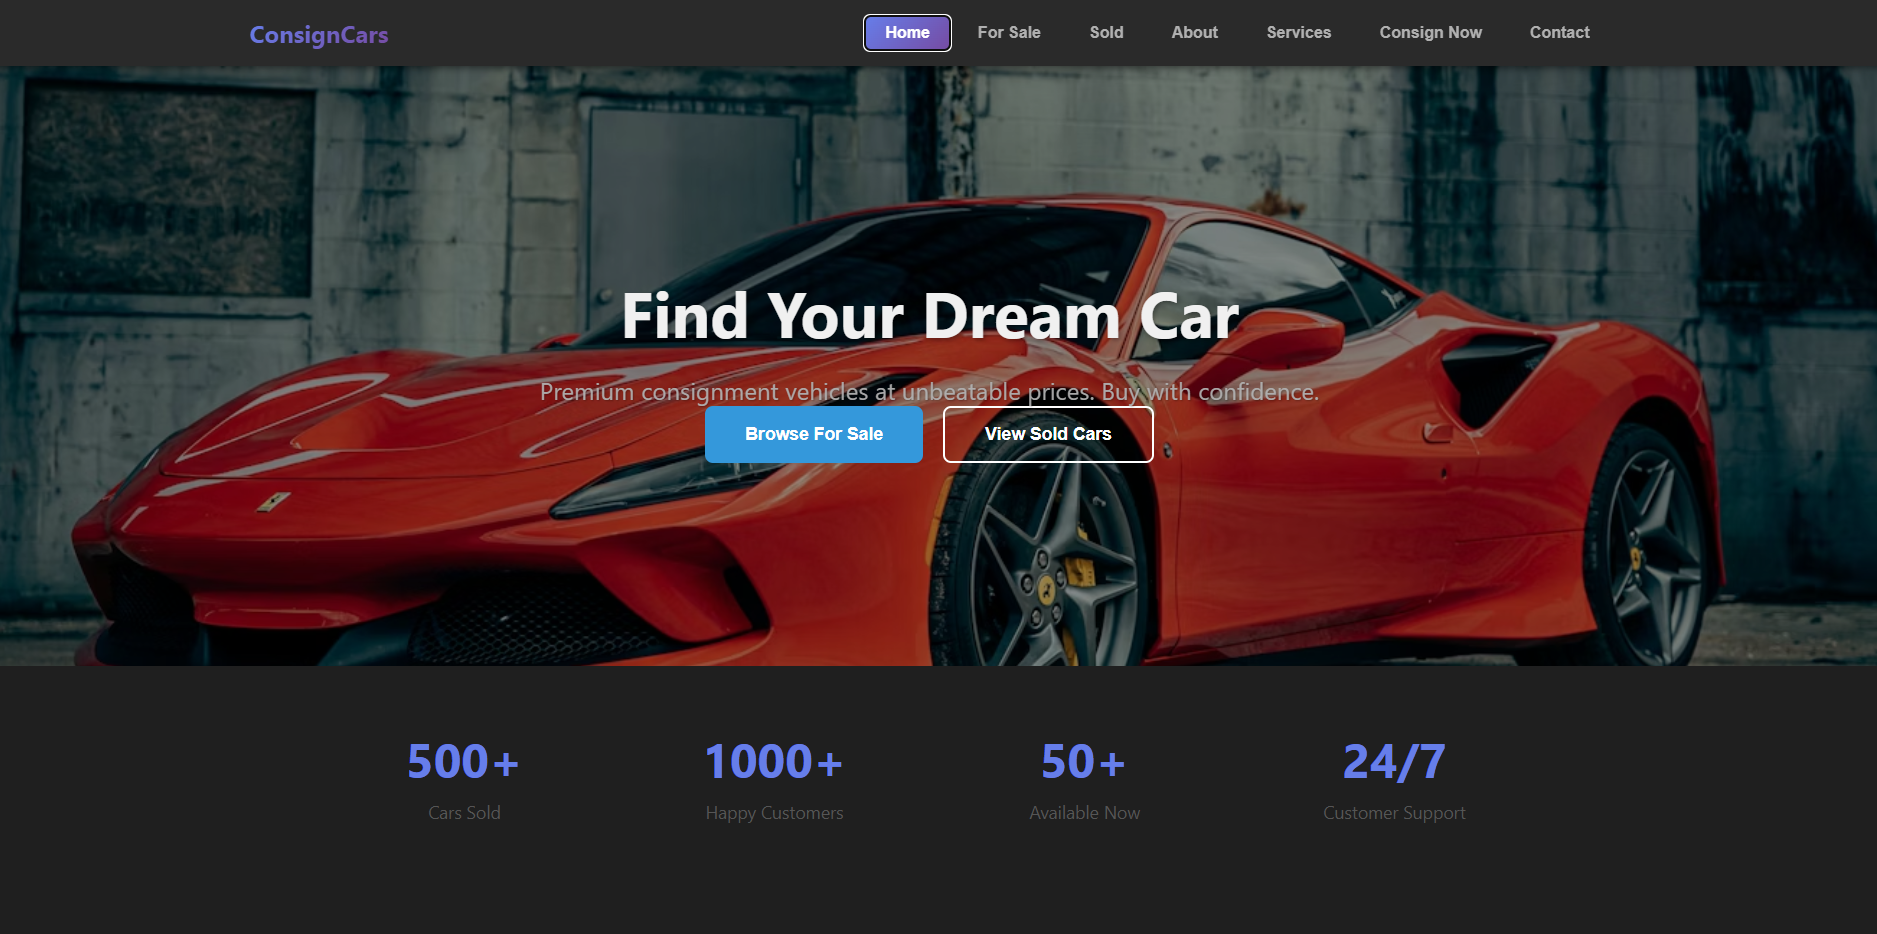
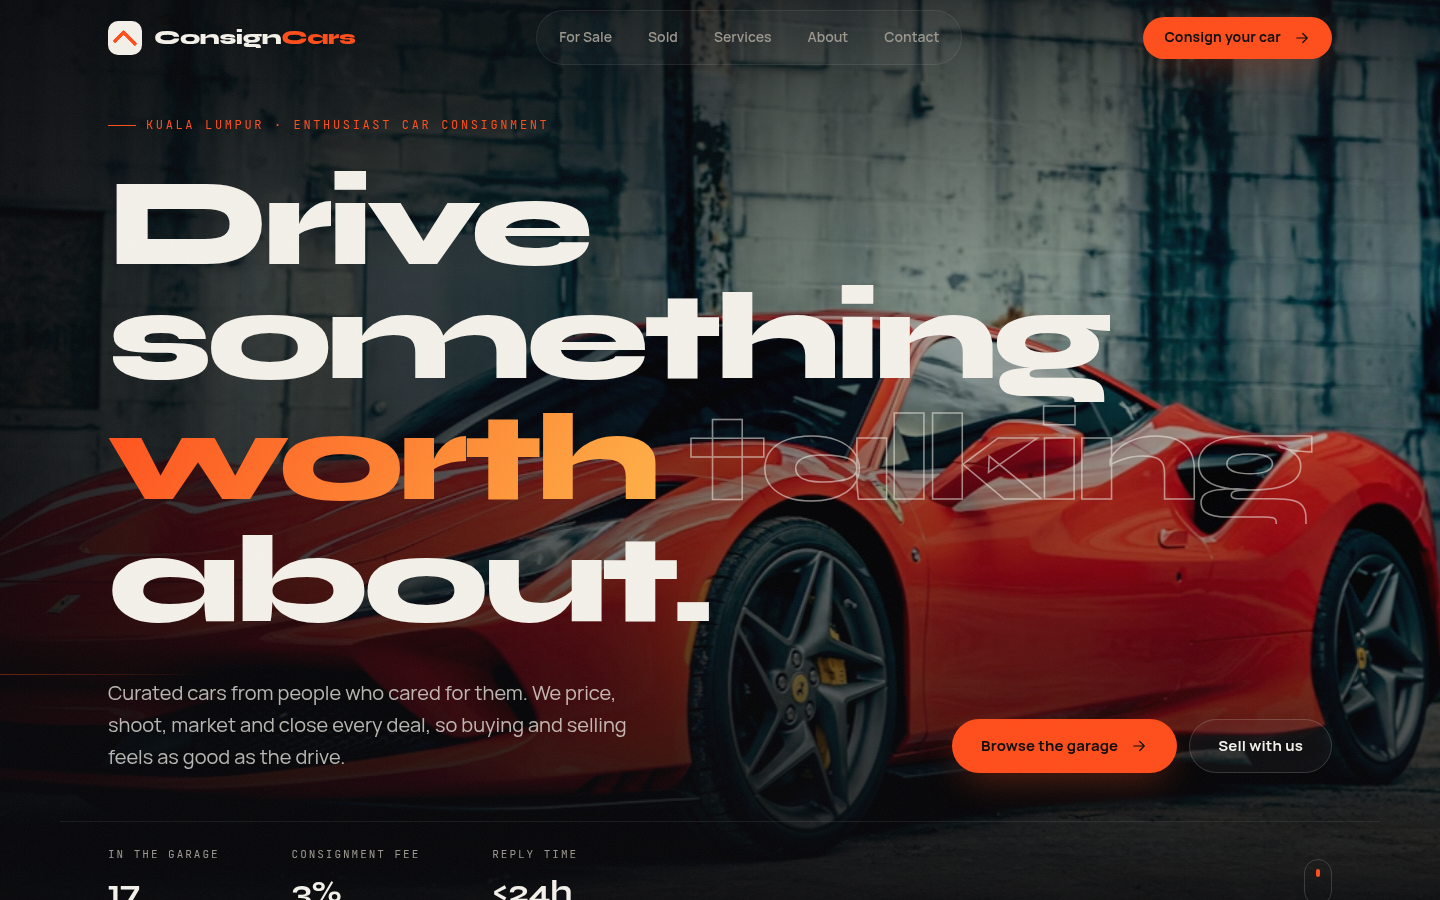
Refresh ConsignCars portfolio screenshot (#5)

diff --git a/frontend/src/data/portfolio.ts b/frontend/src/data/portfolio.ts
@@ -152,7 +152,7 @@ export const projects: Project[] = [
     images: [
       {
         src: "/CarConsignmentWebsite.png",
-        alt: "Car Consignment Website listing page",
+        alt: "ConsignCars homepage featuring a red sports car",
       },
     ],
     category: "web",
